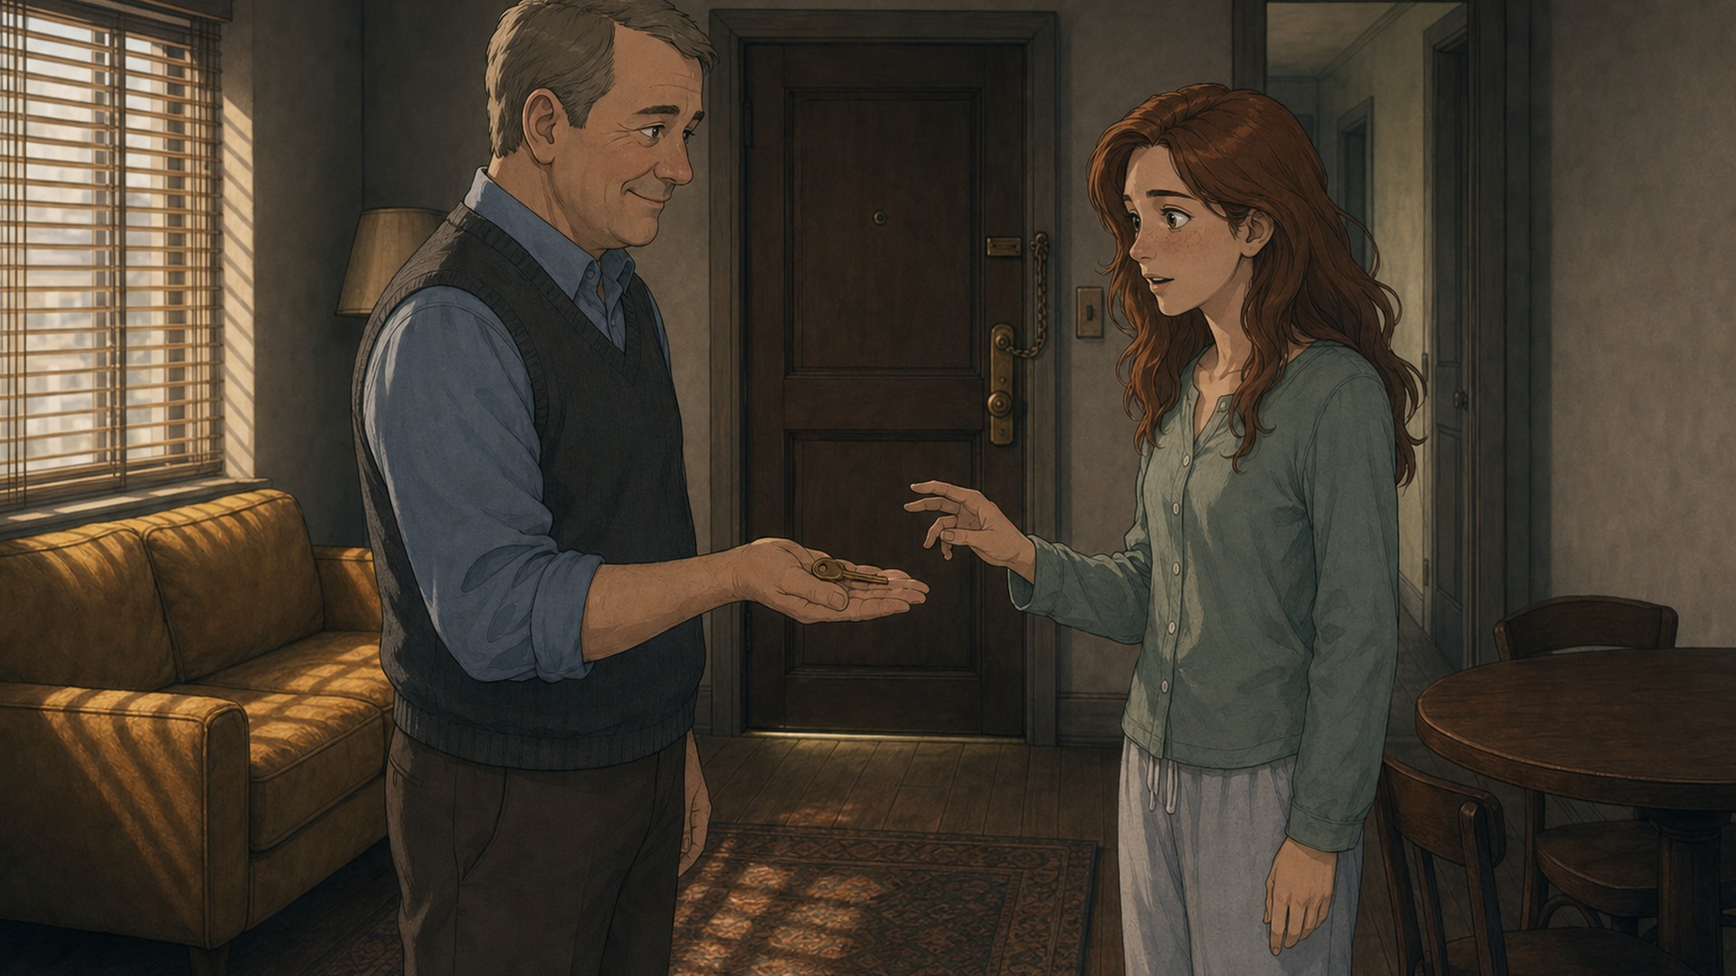
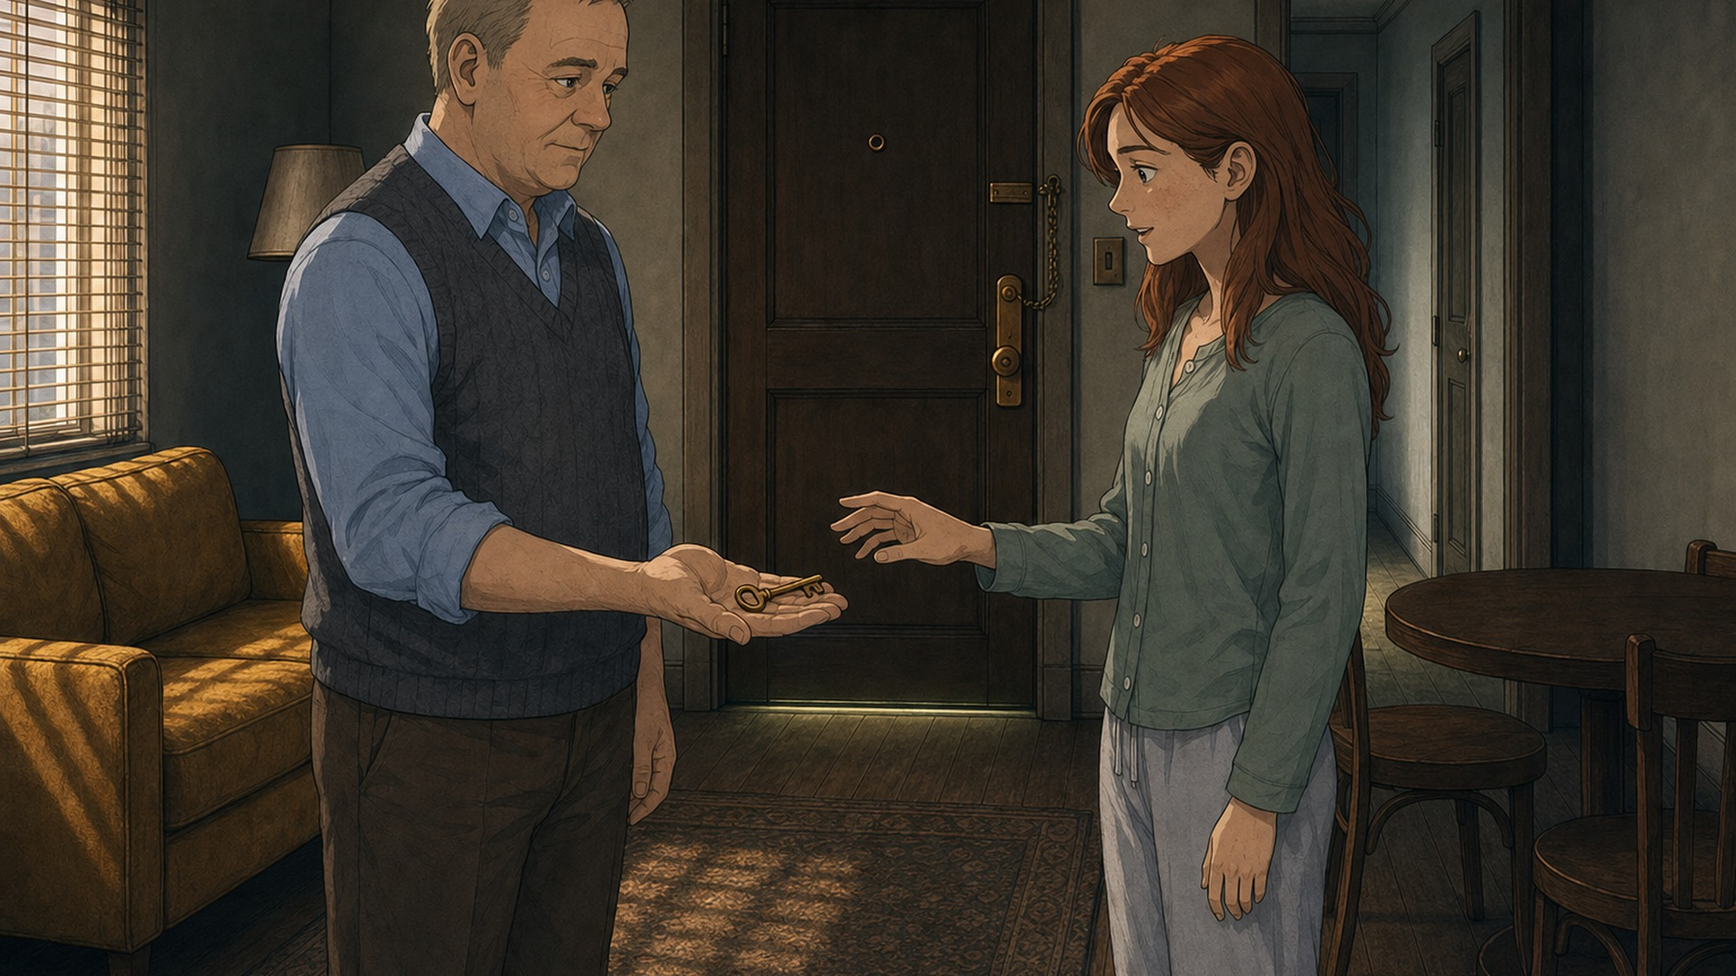
3:06: fixes from review - doors swing in 3D on the hinge read from the drawing, drawings cut cleanly (no ghosting dissolves), big pose changes used whole, landlord composed (new sheet + 4 frames), two-hand fixes, direction fixes (doorframe, sofa, old man)
Claude-Session: https://claude.ai/code/session_01HYgoxans3AHT78NQRMkcgm

diff --git a/door306-horror/src/scenes/NextTenant.tsx b/door306-horror/src/scenes/NextTenant.tsx
@@ -90,7 +90,7 @@ export const NextTenant: React.FC = () => (
 				loc: 'lobby',
 				quality: 'medium',
 				mood: 'Morning light in the lobby.',
-				prompt: 'Close-up at the wall of old brass mailboxes in the lobby: the landlord\'s fingers slide a small white name card out of the holder on one mailbox door; the card is blank on the side we see. Natural hand.',
+				prompt: 'Close-up at the wall of old brass mailboxes in the lobby: the landlord\'s fingers slide a small white name card out of the holder on one mailbox door; the card is blank on the side we see. His face, at the edge of frame, is calm and expressionless - not smiling. Natural hand.',
 				move: push(1.04, 1.1),
 			}, <>
 				<rect x={0} y={0} width={1920} height={1080} fill="#7a6232" />
@@ -102,7 +102,7 @@ export const NextTenant: React.FC = () => (
 				chars: ['landlord'],
 				quality: 'medium',
 				mood: MOOD.office,
-				prompt: 'The landlord sits at his desk in his office in warm morning light and opens an old leather-bound notebook, his face calm and friendly; the laptop and the beige desk phone beside him.',
+				prompt: 'The landlord sits at his desk in his office in warm morning light and opens an old leather-bound notebook, his face calm, neutral and businesslike - no smile, tired guarded eyes; the laptop and the beige desk phone beside him.',
 				move: push(1.02, 1.08),
 			}, {cam: {z: 1.4, cx: 1100, cy: 640}, kids: <Person who="landlord" x={1050} y={1000} h={560} facing="front" />}),
 			// dozens of names, every one crossed out (Sarah's is the last)
@@ -118,20 +118,23 @@ export const NextTenant: React.FC = () => (
 				quality: 'high',
 				talk: ['landlord_001_of_course', 'landlord_002_lovely_place', 'landlord_003_very_friendly', 'landlord_004_not_at_all', 'landlord_005_quiet_building'],
 				mood: MOOD.office,
-				prompt: 'Medium close-up: the landlord at his desk holds the receiver of the old beige desk phone to his ear, smiling warmly and pleasantly, the open notebook in front of him.',
-				variants: [{name: 'wide', prompt: 'His smile has widened - broad and pleasant - but his eyes have gone cold and empty. Nothing else changes.'}],
+				prompt: 'Medium close-up: the landlord at his desk holds the receiver of the old beige desk phone to his ear, listening with a calm, polite, neutral expression - mouth closed, no smile, tired guarded eyes; the open notebook in front of him.',
+				variants: [
+					{name: 'smile', prompt: 'A faint, thin, closed-mouth smile appears at the corners of his mouth; his eyes stay calm and guarded. Nothing else changes.'},
+					{name: 'wide', prompt: 'His thin smile has widened slightly - a small, knowing, closed-mouth smile - while his eyes stay cold and tired. Not a grin, nothing supernatural. Nothing else changes.'},
+				],
 				move: push(1.02, 1.06),
 			}, {cam: {z: 2.0, cx: 1050, cy: 560}, kids: <Person who="landlord" x={1050} y={1000} h={600} facing="front" pose="fingerLips" />}),
 			again('j_14_caller', 'caller_001_still_available', 'j_13_call', {move: push(1.06, 1.1)}),
 			again('j_15_l1', 'landlord_001_of_course', 'j_13_call', {talk: ['landlord_001_of_course'], move: push(1.1, 1.12)}),
 			again('j_16_c2', 'caller_002_too_good', 'j_13_call', {move: push(1.12, 1.16)}),
-			again('j_17_smiles', 'landlord_smiles', 'j_13_call', {seq: [['base', 0], ['wide', 0.5]], move: push(1.16, 1.18)}),
+			again('j_17_smiles', 'landlord_smiles', 'j_13_call', {seq: [['base', 0], ['wide', 0.45]], move: push(1.16, 1.18)}),
 			again('j_18_l2', 'landlord_002_lovely_place', 'j_13_call', {talk: ['landlord_002_lovely_place'], move: push(1.12, 1.16)}),
 			again('j_19_c3', 'caller_003_neighbors', 'j_13_call', {move: push(1.16, 1.18)}),
 			code('j_20_glance', 'glance_notebook', ({f, d}) => <NamesPage f={f + 40} d={d + 40} />),
 			again('j_21_l3', 'landlord_003_very_friendly', 'j_13_call', {talk: ['landlord_003_very_friendly'], move: push(1.16, 1.22)}),
 			again('j_22_c4', 'caller_004_noisy', 'j_13_call', {move: push(1.2, 1.24)}),
-			again('j_23_widens', 'smile_widens', 'j_13_call', {seq: [['base', 0], ['wide', 0.35]], move: push(1.24, 1.32, 0.5, 0.42)}),
+			again('j_23_widens', 'smile_widens', 'j_13_call', {show: 'wide', move: push(1.24, 1.36, 0.5, 0.42)}),
 			again('j_24_l4', 'landlord_004_not_at_all', 'j_13_call', {show: 'wide', move: push(1.32, 1.36, 0.5, 0.42)}),
 			again('j_25_pause', 'brief_pause', 'j_13_call', {show: 'wide', move: push(1.36, 1.4, 0.5, 0.42)}),
 			again('j_26_quiet', 'landlord_005_quiet_building', 'j_13_call', {talk: ['landlord_005_quiet_building'], move: push(1.4, 1.55, 0.5, 0.4)}),

diff --git a/door306-horror/src/components/fx/Restyled.tsx b/door306-horror/src/components/fx/Restyled.tsx
@@ -31,7 +31,7 @@ export const hasRestyle = (id: string, art: Art) => Boolean(SHOTS[id]?.frames?.l
 export const restyleSrc = (id: string, k = 0): string | null => SHOTS[id]?.frames?.[k]?.src ?? null;
 
 const XFADE = 5; // frames, between keyframes
-const DRAW_FADE = 2; // frames, between drawings of a limited-animation sequence
+const DRAW_FADE = 0; // drawings change on a clean cut (no dissolve: blended drawings ghost)
 
 /** Is any of `lines` loud at absolute time t? (smoothed over two frames so a mouth never pops for one frame) */
 const speaking = (scene: SceneTiming, lines: string[], t: number) => {
@@ -59,6 +59,32 @@ const blinking = (g: number, seed: number) => {
 };
 
 const easeInOut = (x: number) => (x <= 0 ? 0 : x >= 1 ? 1 : x * x * (3 - 2 * x));
+
+/** One door panel, cut from `panel` (the frame where this door is shut), turned in 3D around its
+ *  hinge. angle 0 = shut, ~85 = wide open (seen almost edge-on). It swings away from us, into the flat. */
+const SwingingDoor: React.FC<{panel: string; r: Door; angle: number}> = ({panel, r, angle}) => {
+	const [x0, y0, x1, y1, hinge] = r;
+	const w = x1 - x0;
+	const h = y1 - y0;
+	const k = Math.min(1, angle / 85);
+	return (
+		<div style={{position: 'absolute', left: x0, top: y0, width: w, height: h, perspective: `${Math.max(900, h * 2.4)}px`, perspectiveOrigin: hinge === 'l' ? '0% 50%' : '100% 50%'}}>
+			<div
+				style={{
+					position: 'absolute',
+					inset: 0,
+					overflow: 'hidden',
+					transformOrigin: `${hinge === 'l' ? 'left' : 'right'} center`,
+					transform: `rotateY(${hinge === 'l' ? angle : -angle}deg)`,
+					filter: `brightness(${1 - 0.6 * k})`,
+					boxShadow: k > 0.02 ? `${hinge === 'l' ? '' : '-'}12px 0 24px rgba(0,0,0,${0.5 * k})` : undefined,
+				}}
+			>
+				<Img src={staticFile(panel)} style={{position: 'absolute', left: -x0, top: -y0, width: 1920, height: 1080, maxWidth: 'none'}} />
+			</div>
+		</div>
+	);
+};
 
 export const RestyledStill: React.FC<{id: string; art: Art; f: number; d: number; sceneFrame: number; scene: SceneTiming}> = ({id, art, f, d, sceneFrame, scene}) => {
 	const entry = SHOTS[id];
@@ -143,24 +169,29 @@ export const RestyledStill: React.FC<{id: string; art: Art; f: number; d: number
 	if (doors) {
 		const start = Math.round((art.doors?.start ?? 0.05) * d);
 		const stagger = (art.doors?.stagger ?? 0.28) * FPS;
-		const swing = (art.doors?.swing ?? 0.55) * FPS;
+		const swing = (art.doors?.swing ?? 0.9) * FPS;
 		// a seeded opening order, so the doors do not open in a neat row
 		const order = doors.rects.map((_, i) => i).sort((a, b) => h01(a + 3, 17) - h01(b + 3, 17));
-		// each door: the dark gap opens at the latch edge and widens toward the hinge, revealing the
-		// doors-open drawing inside that door's area only
+		// each door: the panel from the shut frame swings open on its hinge (into the flat) over the
+		// doors-open drawing; with `close`, the shut panel swings closed over the open frame instead.
+		// Regions too wide to be one door (a doorway with people) fade instead of swinging.
+		const closing = Boolean(art.doors?.close);
+		const shut = closing ? doors.open : frame.src;
+		const under = closing ? frame.src : doors.open;
 		doorLayer = (
 			<>
-				<Img src={staticFile(frame.src)} style={full} />
+				<Img src={staticFile(under)} style={full} />
 				{order.map((i, k) => {
-					const r = easeInOut((f - start - k * stagger) / swing);
-					if (r <= 0) return null;
-					const [x0, y0, x1, y1, hinge] = doors.rects[i];
-					const w = x1 - x0;
-					const clip =
-						hinge === 'r'
-							? `inset(${y0}px ${1920 - (x0 + w * r)}px ${1080 - y1}px ${x0}px)`
-							: `inset(${y0}px ${1920 - x1}px ${1080 - y1}px ${x1 - w * r}px)`;
-					return <Img key={i} src={staticFile(doors.open)} style={{...full, clipPath: clip}} />;
+					const p = easeInOut((f - start - k * stagger) / swing);
+					const r = doors.rects[i];
+					const wide = r[2] - r[0] > 0.2 * 1920;
+					const openness = closing ? 1 - p : p; // 0 shut .. 1 open
+					if (wide) {
+						const [x0, y0, x1, y1] = r;
+						return <Img key={i} src={staticFile(shut)} style={{...full, clipPath: `inset(${y0}px ${1920 - x1}px ${1080 - y1}px ${x0}px)`, opacity: 1 - openness}} />;
+					}
+					if (openness >= 0.995) return null;
+					return <SwingingDoor key={i} panel={shut} r={r} angle={85 * openness} />;
 				})}
 			</>
 		);

diff --git a/door306-horror/src/scenes/Staircase.tsx b/door306-horror/src/scenes/Staircase.tsx
@@ -60,9 +60,9 @@ export const Staircase: React.FC = () => (
 				chars: ['sarah'],
 				quality: 'high',
 				mood: 'Corridor light floods in through the wide-open front door; the flat dark around it.',
-				prompt: 'At her wide-open front door: Sarah, on her stomach on the floor, clings to the wooden doorframe with both hands, her body stretched out as she is being dragged backward out into the corridor; her face contorted with effort and terror.',
+				prompt: 'At her wide-open front door, seen from inside the flat: Sarah lies on her stomach across the threshold, being dragged OUT into the corridor by her ankle - her FEET and legs are already out through the doorway in the corridor light, her HEAD and arms are still inside the dark flat toward us, and both hands cling to the inside edge of the doorframe; her face contorted with effort and terror.',
 				move: push(1.03, 1.1),
-			}, {cam: {z: 1.7, cx: 920, cy: 560}, kids: <Person who="sarah" x={920} y={840} h={520} facing="front" pose="reach" tilt={70} />}),
+			}, {cam: {z: 1.7, cx: 920, cy: 560}, kids: <Person who="sarah" x={760} y={880} h={520} facing="front" pose="reach" tilt={-70} />}),
 			again('i_08_hold', 'narrator_187_hold_on', 'i_07_doorframe', {move: push(1.12, 1.2), fx: 'tremble'}),
 			again('i_09_harder', 'narrator_188_harder', 'i_07_doorframe', {fx: 'shake', move: push(1.2, 1.14)}),
 			// "I was dragged out into the corridor." - beat: dragged out
@@ -167,7 +167,7 @@ export const Staircase: React.FC = () => (
 			again('i_31_watching', 'narrator_207_watching', 'i_30_lookback', {move: push(1.1, 1.16)}),
 			again('i_32_word', 'narrator_208_not_a_word', 'd_08_still', {move: push(1.14, 1.2)}),
 			// "Then, slowly, they began closing their doors." / "One by one." + beat - the doors close
-			again('i_33_closing', 'narrator_209_closing_doors', 'i_30_lookback', {doors: {prompt: '', start: 0.35, stagger: 1.1, swing: 0.6}, move: push(1.06, 1.14)}),
+			again('i_33_closing', 'narrator_209_closing_doors', 'i_30_lookback', {doors: {prompt: '', start: 0.3, stagger: 0.7, swing: 0.9, close: true}, move: push(1.06, 1.14)}),
 			again('i_34_closed', 'narrator_210_one_by_one', 'i_30_lookback', {show: 'open', move: push(1.14, 1.2)}),
 			// "Until the only sounds left were my screams..." / "And the thing dragging me down the staircase." - into the dark
 			again('i_35_screams', 'narrator_211_my_screams', 'd_13_stairwell', {grade: 1.2, move: push(1.06, 1.3, 0.45, 0.65)}),

diff --git a/door306-horror/src/scenes/Offering.tsx b/door306-horror/src/scenes/Offering.tsx
@@ -76,7 +76,7 @@ export const Offering: React.FC = () => (
 				quality: 'high',
 				talk: ['sarah_010_no_please', 'sarah_011_stop_please', 'sarah_012_dont_do_this'],
 				mood: GAP_LIGHT,
-				prompt: 'Close-up: Sarah in panic, leaning her whole weight against the barricade at her front door, eyes wide, mouth open pleading, tears; light from the corridor striping her face.',
+				prompt: 'Close-up from the waist up: Sarah in panic, leaning against her front door with EXACTLY TWO hands - both palms flat on the door - eyes wide, pleading, tears; light from the corridor striping her face. Nothing else in the foreground: no other hands, arms, feet or people anywhere in the frame.',
 				move: push(1.03, 1.08),
 			}, <Person who="sarah" x={960} y={1700} h={1500} facing="front" />),
 			// "The lock turned." / "The door began opening." / "The furniture scraped across the floor."
@@ -159,7 +159,7 @@ export const Offering: React.FC = () => (
 				quality: 'high',
 				fx: 'shake',
 				mood: GAP_LIGHT,
-				prompt: 'Close-up: Sarah screaming in pure terror, mouth wide open, eyes huge, hands raised, falling backward away from the reaching arm; corridor light slashing across her face.',
+				prompt: 'Close-up: Sarah screaming in pure terror, mouth wide open, eyes huge, her TWO hands raised, falling backward; from the right edge of the frame only the creature\'s impossibly long, thin, bony GREY fingers reach toward her (clearly grey and inhuman, not a human hand); corridor light slashing across her face.',
 				move: push(1.04, 1.12),
 			}, <Person who="sarah" x={960} y={1700} h={1500} facing="front" pose="coverMouth" />),
 			// "And ran." - she runs for the bedroom

diff --git a/door306-horror/src/scenes/Neighbors.tsx b/door306-horror/src/scenes/Neighbors.tsx
@@ -24,9 +24,9 @@ export const Neighbors: React.FC = () => (
 				quality: 'high',
 				fx: 'tremble',
 				mood: MOOD.hall,
-				prompt: 'Medium shot near the stairwell at the left end of the corridor: the very old bald man in grey striped pyjamas, shaking so badly he can barely stand, one hand pressed flat against the wall beside the black stair railing, his knees buckling, eyes wide with terror, facing left toward the stairs.',
+				prompt: 'Medium shot near the stairwell at the left end of the corridor: ONLY the very old bald man in grey striped pyjamas, standing on the RIGHT half of the frame in strict side PROFILE, his face, nose and body pointing to the LEFT edge of the frame where the black stair railing and the stairs are (we see his right ear and right cheek), staring at the stairs, shaking so badly he can barely stand, one hand pressed flat against the wall, his knees buckling, eyes wide with terror. Nobody else in the frame.',
 				move: push(1.03, 1.1, 0.45, 0.45),
-			}, {cam: {z: 2.1, cx: 600, cy: 520}, kids: <Person who="oldman" x={600} y={885} h={470} facing="left" pose="handOnWall" />}),
+			}, {cam: {z: 2.1, cx: 640, cy: 520}, kids: <Person who="oldman" x={760} y={885} h={470} facing="left" />}),
 			// "But nobody moved." / "Nobody tried to escape."
 			again('c_06_nobody', 'narrator_069_nobody_moved', 'd_09_facing_stairs', {move: push(1.04, 1.1, 0.52, 0.47)}),
 			again('c_07_escape', 'narrator_070_nobody_escape', 'd_07_peephole_pov', {move: {z0: 1.25, z1: 1.3, x0: 0.33, y0: 0.5, x1: 0.3, y1: 0.5}}),

diff --git a/door306-horror/src/scenes/Realization.tsx b/door306-horror/src/scenes/Realization.tsx
@@ -16,14 +16,14 @@ export const Realization: React.FC = () => (
 				chars: ['sarah'],
 				quality: 'medium',
 				mood: MOOD.flat,
-				prompt: 'The dark living room: Sarah, bent low and straining, drags the old mustard-yellow sofa across the floorboards toward the front door, the rug bunching up under it.',
+				prompt: 'The dark living room: Sarah, bent low and straining, walks backward toward the front door at the back of the room, pulling the old mustard-yellow sofa after her across the floorboards TOWARD the door; the rug bunching up under it.',
 				variants: [{name: 'pushed', prompt: 'The mustard sofa is now shoved right up against the front door, blocking it; Sarah stands beside it, out of breath. Nothing else changes.'}],
 				seq: [
 					['base', 0],
 					['pushed', 0.62],
 				],
 				move: push(1.02, 1.08),
-			}, {cam: {z: 1.3, cx: 760, cy: 560}, kids: <Person who="sarah" x={620} y={900} h={480} facing="right" pose="reach" />}),
+			}, {cam: {z: 1.3, cx: 760, cy: 560}, kids: <Person who="sarah" x={880} y={860} h={470} facing="left" pose="reach" />}),
 			// "Then a thought crossed my mind." / every floor / "Who was it supposed to take from mine?"
 			again('g_03_thought', 'narrator_132_thought', 'c_08_dread', {move: push(1.04, 1.1, 0.5, 0.42)}),
 			again('g_04_floors', 'narrator_133_every_floor', 'd_09_facing_stairs', {move: push(1.0, 1.08)}),

diff --git a/door306-horror/src/scenes/NewApartment.tsx b/door306-horror/src/scenes/NewApartment.tsx
@@ -92,7 +92,7 @@ export const NewApartment: React.FC = () => (
 					quality: 'high',
 					blink: true,
 					mood: MOOD.day,
-					prompt: 'DAYTIME, three weeks earlier, inside Sarah\'s new flat (same room as the location reference, but in soft daylight through the blinds, still empty apart from the mustard sofa and the round table): the landlord, smiling warmly, holds out a single brass key on his open palm toward Sarah; she reaches for it, pleased and a little surprised. His smile does not quite reach his eyes.',
+					prompt: 'DAYTIME, three weeks earlier, inside Sarah\'s new flat (same room as the location reference, but in soft daylight through the blinds, still empty apart from the mustard sofa and the round table): the landlord, composed and polite with only a faint, thin, closed-mouth smile and watchful eyes, holds out a single brass key on his open palm toward Sarah; she reaches for it, pleased and a little surprised. He is businesslike, not cheerful.',
 					move: {z0: 1.03, z1: 1.09},
 				},
 			},

diff --git a/door306-horror/src/data/art.ts b/door306-horror/src/data/art.ts
@@ -66,7 +66,7 @@ export interface Art {
 	/** blink: generate an eyes-closed drawing and blink every few seconds */
 	blink?: boolean;
 	/** doors: a doors-open drawing; doors swing open one after another from `start` (fraction) */
-	doors?: {prompt: string; start?: number; stagger?: number; swing?: number; loose?: boolean};
+	doors?: {prompt: string; start?: number; stagger?: number; swing?: number; loose?: boolean; close?: boolean};
 	/** the frame is seen through the peephole (fisheye + round vignette) */
 	peephole?: boolean;
 	/** reuse: show this drawing of the source shot ('open' = its doors-open drawing, or a variant name) */

diff --git a/door306-horror/scripts/images/restyle.py b/door306-horror/scripts/images/restyle.py
@@ -93,7 +93,8 @@ RESIDENTS_SPEC = (
 LANDLORD_SPEC = (
     'The landlord: a man of about 55, broad and soft, a round clean-shaven friendly face with ruddy cheeks, thinning sandy-grey hair combed '
     'neatly to the side, small pale eyes; a GREY knitted SWEATER VEST over a light-blue shirt with the sleeves rolled up, brown trousers, '
-    'a gold wedding ring. His smile is warm but never reaches his eyes.'
+    'a gold wedding ring. His manner is composed, polite and businesslike; his face is calm and slightly tired, with guarded, '
+    'watchful eyes - at most a faint, thin, closed-mouth smile. He is NEVER cheerful, grinning or laughing.'
 )
 CREATURE_SPEC = (
     'The creature: nearly SEVEN FEET tall, an emaciated human-like body with GREY, waxy skin stretched tightly over its bones (ribs, knobbly '
@@ -113,8 +114,9 @@ CHAR_NOTE = {
     'residents': 'The other residents must be EXACTLY the five people of the residents sheet (the bald old man in grey pyjamas, the moustached '
                  'man in the navy bathrobe, the bearded man in the white T-shirt, the curly-haired woman in the cream blanket, the grey-haired '
                  'woman in the lilac dressing gown) - no other people.',
-    'landlord': 'The landlord must match his sheet EXACTLY: round ruddy friendly face, thinning sandy-grey hair combed to the side, grey '
-                'sweater vest over a light-blue shirt with rolled sleeves, wedding ring.',
+    'landlord': 'The landlord must match his sheet EXACTLY: round ruddy face, thinning sandy-grey hair combed to the side, grey sweater '
+                'vest over a light-blue shirt with rolled sleeves, wedding ring; composed and polite, guarded eyes, at most a faint thin smile - '
+                'never cheerful or grinning.',
     'creature': 'The creature must match its design sheet EXACTLY: nearly seven feet tall, grey skin tight over bone, head bent at an '
                 'impossible angle, arms hanging to its shins, impossibly long fingers, jaw hanging open far too wide; never cute, never '
                 'cartoonish, never gory.',
@@ -186,7 +188,8 @@ LOOKDEV = {
         'out': SHEETS / 'landlord.png', 'refs': [],
         'prompt': (f'Character model sheet for an animated horror film, in exactly the style of the style reference image. {LANDLORD_SPEC} '
                    'On a plain light-grey background: his full body in FRONT, THREE-QUARTER and SIDE view at the same scale, and two '
-                   'head-and-shoulders portraits: a warm FRIENDLY SMILE, and the same smile widening while his eyes stay cold.' + SHEET_TAIL),
+                   'head-and-shoulders portraits: CALM and NEUTRAL (polite, businesslike, guarded eyes, mouth closed), and a FAINT THIN closed-mouth smile '
+                   'that does not reach his tired, cold eyes. Never cheerful.' + SHEET_TAIL),
     },
     'creature': {
         'out': SHEETS / 'creature.png', 'refs': [],
@@ -814,6 +817,10 @@ def merge_variant(base: Image.Image, var: Image.Image, thr: float = 20, min_frac
         keep[lab == c] = 1
     keep = cv2.morphologyEx(keep, cv2.MORPH_CLOSE, np.ones((25, 25), np.uint8))
     keep = cv2.dilate(keep, np.ones((17, 17), np.uint8))
+    if not eyes_only and keep.mean() > 0.12:
+        # a big change (people turning, a pose change): take the whole drawing - a partial merge
+        # would cut people in half or leave ghosts
+        return Image.fromarray(v.clip(0, 255).astype(np.uint8)), np.ones_like(keep), 1.0
     alpha = cv2.GaussianBlur(keep.astype(np.float32), (0, 0), 7)[..., None]
     out = b * (1 - alpha) + v * alpha
     return Image.fromarray(out.clip(0, 255).astype(np.uint8)), keep, float(keep.mean())
@@ -868,7 +875,21 @@ def merge_doors(base: Image.Image, var: Image.Image, loose: bool = False) -> tup
     alpha = cv2.GaussianBlur(alpha, (0, 0), 3)[..., None]
     out = b * (1 - alpha) + v * alpha
     sx, sy = 1920 / W, 1080 / H
-    door_list = [[round(x0 * sx), round(y0 * sy), round(x1 * sx), round(y1 * sy), 'r' if (x0 + x1) / 2 < W / 2 else 'l'] for x0, y0, x1, y1 in rects]
+    vl = v.mean(axis=2)
+
+    def hinge(x0: int, y0: int, x1: int, y1: int) -> str:
+        # 1) read it from the doors-open drawing: the swung-back panel is the lit strip on the hinge
+        #    side, the dark gap is on the latch side
+        mid = (x0 + x1) // 2
+        left, right = vl[y0:y1, x0:mid].mean(), vl[y0:y1, mid:x1].mean()
+        if abs(left - right) > 0.15 * max(left, right, 1):
+            return 'l' if left > right else 'r'
+        # 2) a fully dark doorway: the doorknob is on the INNER edge in these corridors, so the hinge
+        #    is on the OUTER edge
+        c = (x0 + x1) / 2
+        return 'l' if c < W / 2 else 'r'
+
+    door_list = [[round(x0 * sx), round(y0 * sy), round(x1 * sx), round(y1 * sy), hinge(x0, y0, x1, y1)] for x0, y0, x1, y1 in rects]
     return Image.fromarray(out.clip(0, 255).astype(np.uint8)), door_list, float(alpha.mean())
 
 
